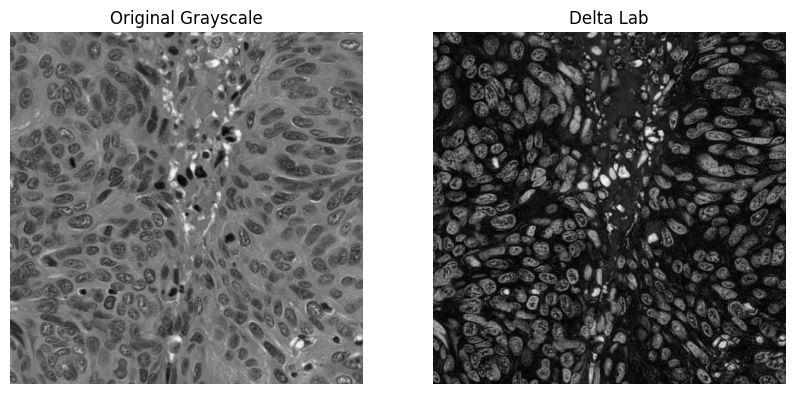
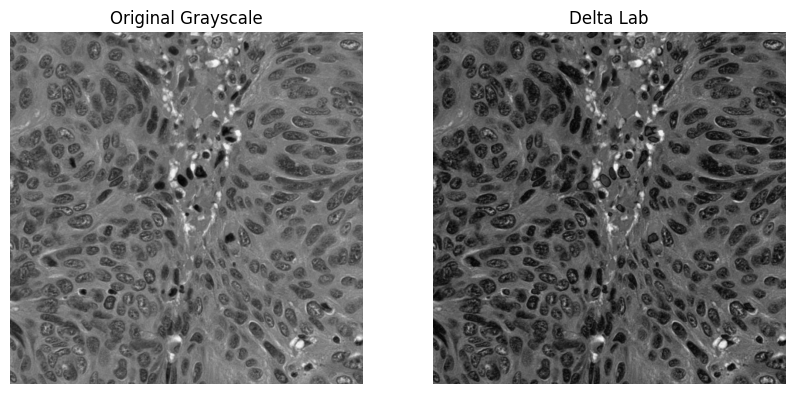
Update README

diff --git a/README.md b/README.md
@@ -157,11 +157,13 @@ The YCrCb images were then converted back to the RGB color space. The results fo
 
 The experiment code and visualizations can be found in the [`experiment_2.ipynb`](experiment_2.ipynb) notebook.
 
-To select one nucleus we used a click event in OpenCV to get the coordinates of the mouse click. Then we selected an area around the clicked point with a radius of 10 pixels. The following image shows the selected nucleus area in RGB for visualization purposes:
+To select one nucleus we used a click event in OpenCV to get the coordinates of the mouse click. Then we selected an area around the clicked point with a radius of 40 pixels. Then we performed Otsu thresholding on this area in the grayscale color space. In case of multiple contours in the thresholded image, we selected the contour with the largest area. Then we used the `cv2.fillPoly` function to fill the selected contour with white color to create a mask.
 
-![Selected Nucleus](images/nucleus_zoomed.png)
+The following image shows the mask and selected nucleus area in RGB for visualization purposes:
 
-Then we calculated the mean L, a, and b values of the Lab color space in the selected area. Then we created a grayscale delta image where each pixel value is `delta_E = np.sqrt(delta_L**2 + delta_a**2 + delta_b**2)`. The following code was used to calculate the delta image:
+![Selected Nucleus](images/mask_contour.png)
+
+Then we calculated the mean L, a, and b values of the Lab color space in the selected area where the mask contains ones. Then we created a grayscale delta image where each pixel value is `delta_E = np.sqrt(delta_L**2 + delta_a**2 + delta_b**2)`. The following code was used to calculate the delta image:
 
 ```python
 delta_lab = np.zeros((lab_img.shape[0], lab_img.shape[1]), dtype=np.uint8)
@@ -179,8 +181,10 @@ The following are the original grayscale image and the delta image:
 
 ![Original Grayscale and Delta Image](images/orig_vs_delta.png)
 
+We can see higher contrast between the nuclei and the background in the delta image.
+
 Next we used a Gaussian filter with a kernel size of 7 and $\sigma = 0$ to smooth both the original grayscale image and the delta image. After that we performed Otsu's thresholding on the smoothed images and compared the results.
 
 ![Original Grayscale and Delta Image Thresholding](images/orig_vs_delta_otsu.png)
 
-We can see better separation of the nuclei from each other in the binary image created from the delta image.
+However, we do not see a significant difference between the original grayscale image and the delta image after thresholding.
